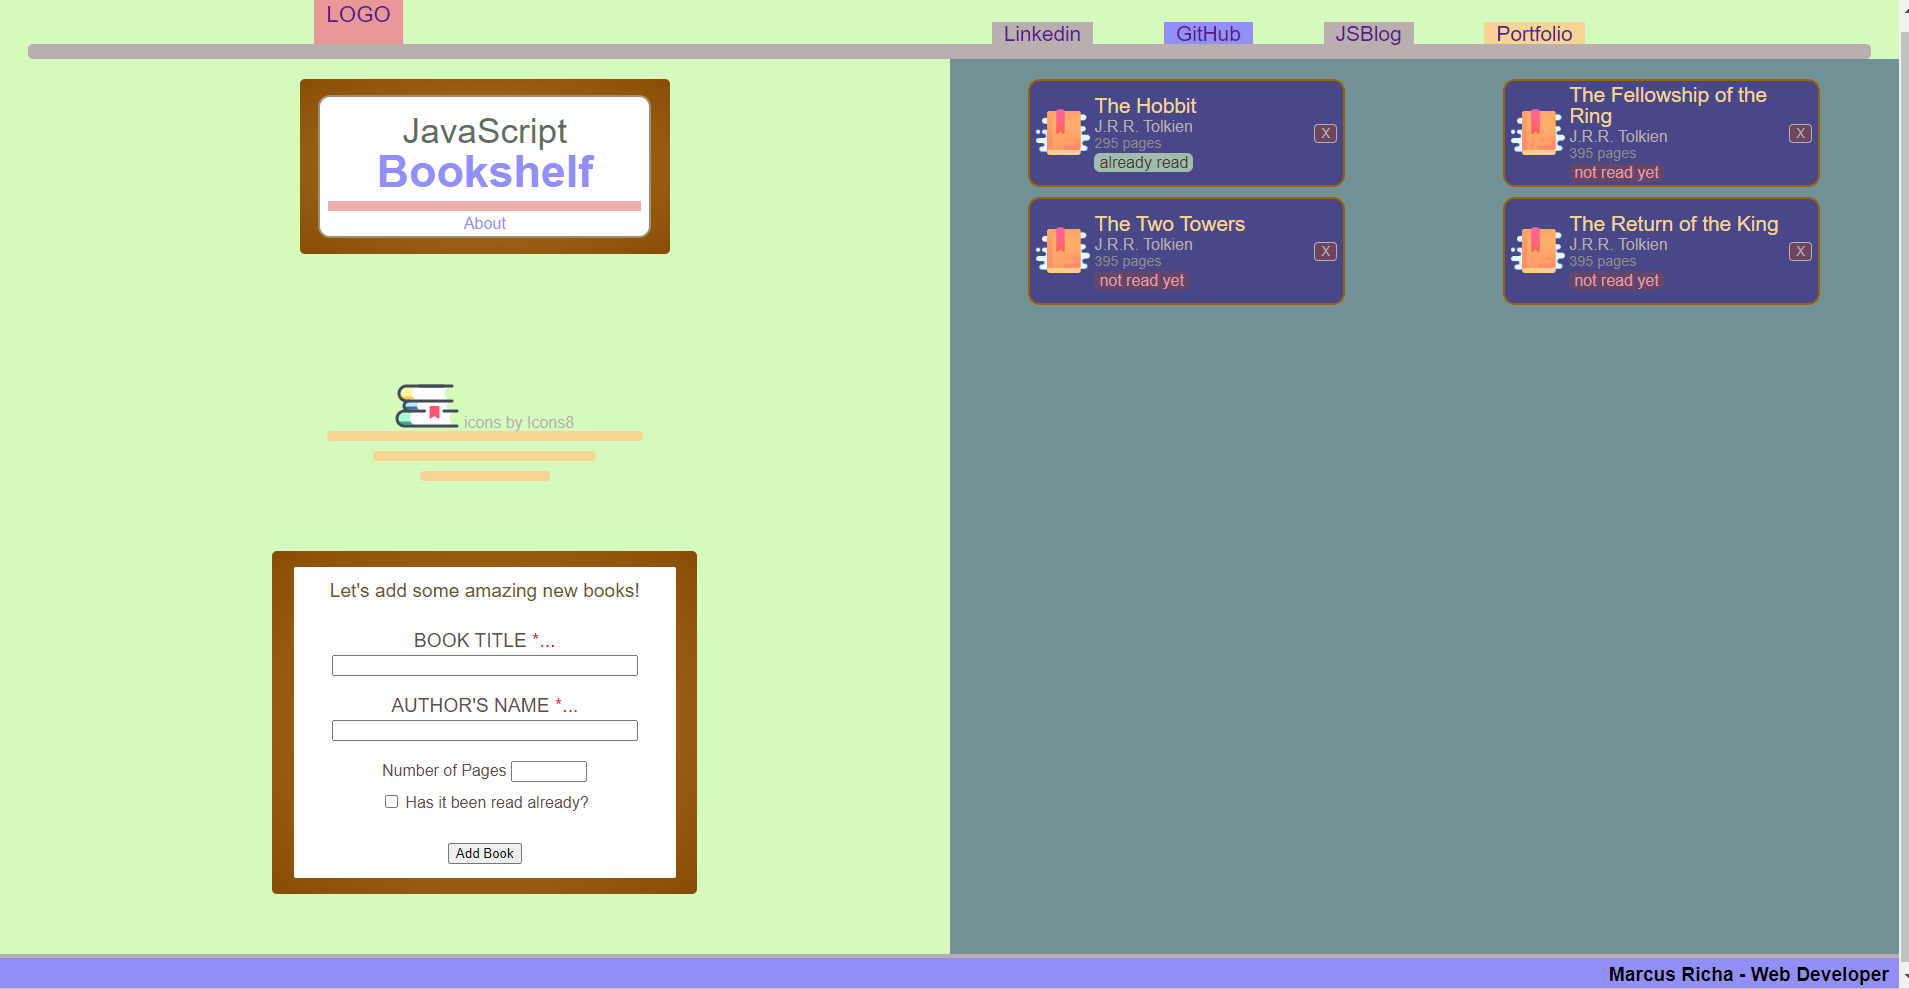
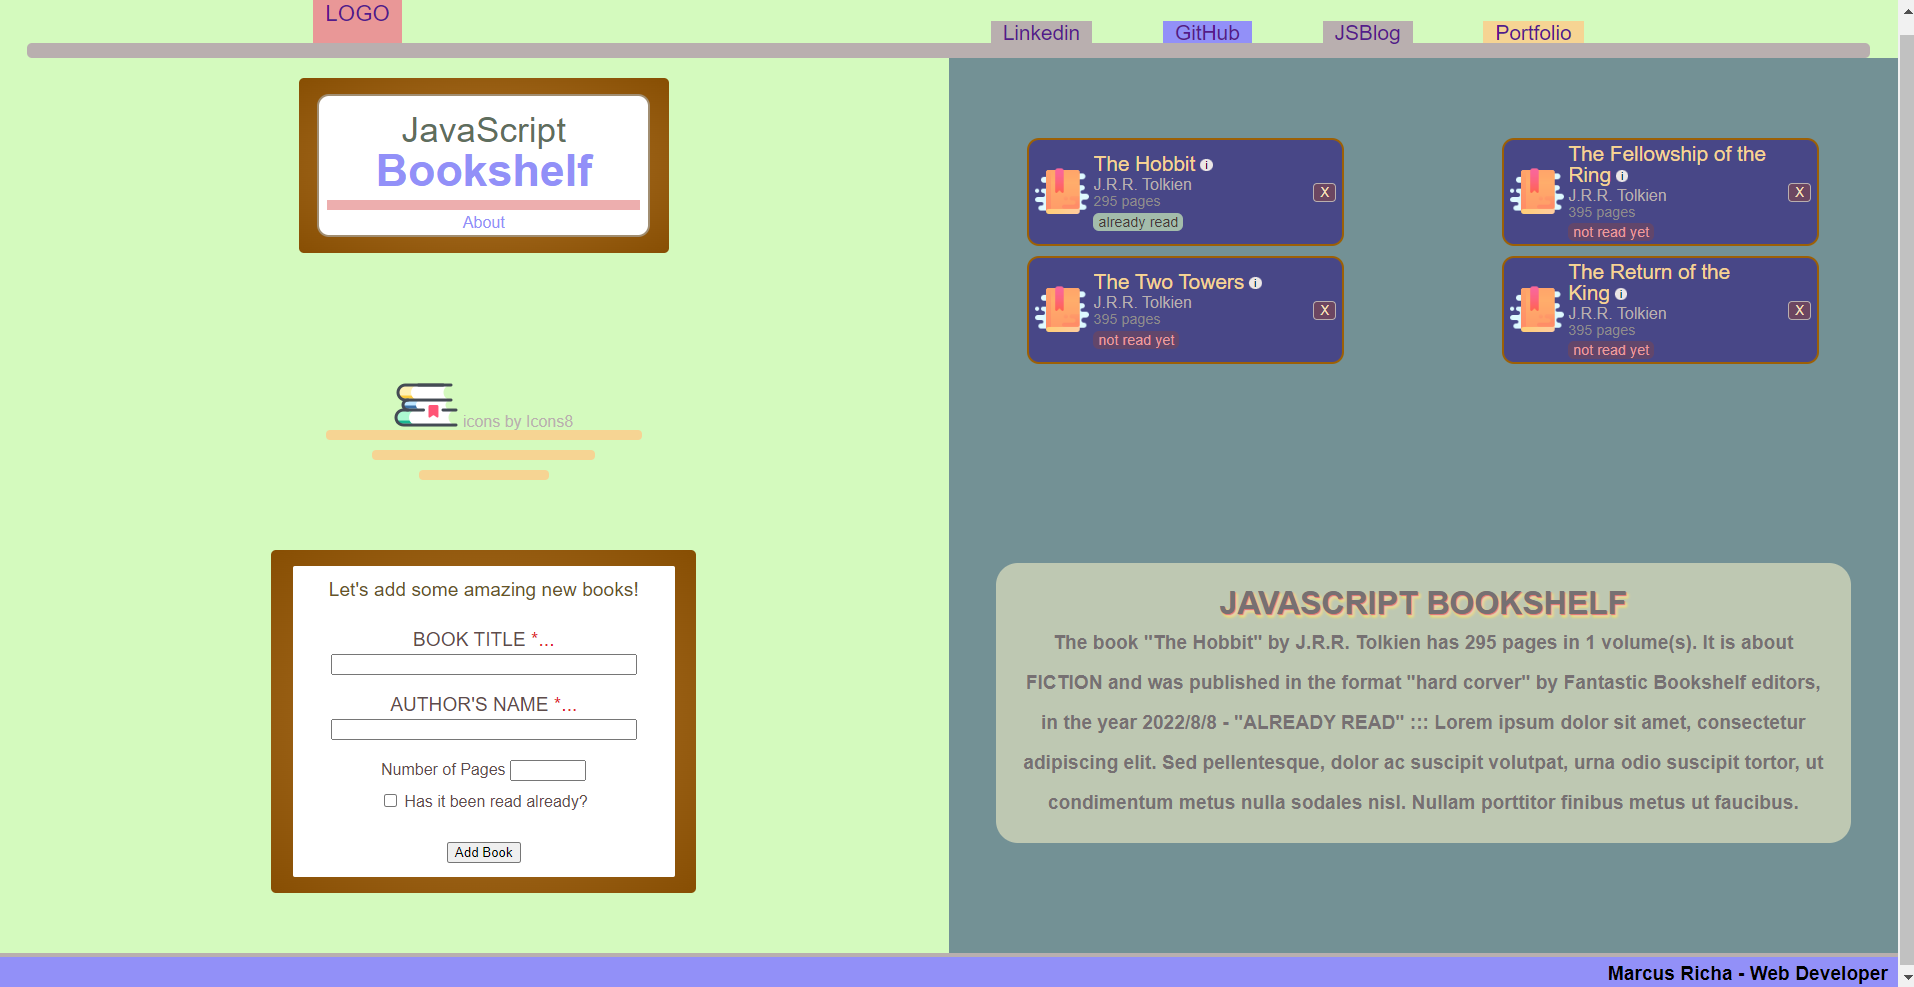
Fix adding book to a empty bookList array and side-effect at book desc

diff --git a/index.js b/index.js
@@ -1,2 +1,2 @@
-(()=>{"use strict";function t(t,e,o,n){this.title=t,this.author=e,this.coauthors=[],this.numVolumes=1,this.publisher="Fantastic Bookshelf",this.bookType="hard corver",this.bookCategory="fiction",this.edition=1,this.releaseYear=new Date,this.numPages=o,this.bookState=n,this.date=new Date,this.lastChange=new Date,this.bookDesc="Lorem ipsum dolor sit amet, consectetur adipiscing elit. Sed pellentesque, dolor ac suscipit volutpat, urna odio suscipit tortor, ut condimentum metus nulla sodales nisl. Nullam porttitor finibus metus ut faucibus."}t.prototype.info=function(){return'The book "'.concat(this.title,'" by ').concat(this.author," has ").concat(this.numPages," pages in ").concat(this.numVolumes," volume(s). It is about ").concat(this.bookCategory.toUpperCase(),' and was published in the format "').concat(this.bookType,'" by ').concat(this.publisher," editors, in the year ").concat(this.releaseYear.getFullYear(),"/").concat(this.releaseYear.getMonth()+1,"/").concat(this.releaseYear.getDate(),' - "').concat(this.bookState.toUpperCase(),'" ::: ').concat(this.bookDesc,"\n\t")},t.prototype.description=function(){return"".concat(this.author," 's ").concat(this.title," is a book about: ").concat(this.bookDesc)};const e=t;function o(){var t=arguments.length>0&&void 0!==arguments[0]?arguments[0]:"p",e=arguments.length>1?arguments[1]:void 0,o=arguments.length>2?arguments[2]:void 0,n=arguments.length>3?arguments[3]:void 0,i=arguments.length>4?arguments[4]:void 0,a=document.createElement(t);if(e){var r=document.createTextNode(e);a.appendChild(r)}if(o&&a.classList.add(o),n&&(a.id=n),Array.isArray(i))for(var l=0;l<i.length;l+=1)a[i[l].prop]=i[l].value;return a}function n(t,e,n){return o(t,e,n)}var i=document.getElementById("booklist");const a=function(t){i.innerHTML=null,t.map((function(t,e){var n,a=o("li","","booklist-partition__book"),r=o("img","","booklist-partition__icon","",[{prop:"src",value:"./public/images/icons8-book-64.png"},{prop:"alt",value:"books icon"}]),l=o("div","","booklist-partition__book-content"),s=o("h3",t.title,"booklist-partition__title"),c=o("span","i","booklist-partition__bookdesc-btn"),d=o("h5",t.author,"booklist-partition__author"),u=o("p","".concat(t.numPages," pages"),"booklist-partition__pages");n="already read"===t.bookState?o("span",t.bookState,"booklist-partition__book-read","book-note"):o("spam",t.bookState,"booklist-partition__book-not-read","book-note");var h=o("button","X","booklist-partition__remove-btn","");return c.setAttribute("data-id",e),h.setAttribute("data-id",e),n.setAttribute("data-id",e),s.appendChild(c),l.appendChild(s),l.appendChild(d),l.appendChild(u),l.appendChild(n),a.appendChild(r),a.appendChild(l),a.appendChild(h),i.appendChild(a),a}))};var r=document.getElementById("hidden-message-board"),l=document.querySelector(".book-stack__ornament3"),s="Welcome, fell free to post your books here! :-)";const c=function(t){var e=arguments.length>1&&void 0!==arguments[1]?arguments[1]:s,o=arguments.length>2?arguments[2]:void 0,i=n(t,e,o);r.style.display="block",console.log(l),r.appendChild(i),setTimeout((function(){r.style.display="none",r.innerHTML=null}),5e3)};var d=document.querySelector(".booklist-partition__book-desc"),u="JAVASCRIPT BOOKSHELF";const h=function(t){var e=arguments.length>1&&void 0!==arguments[1]?arguments[1]:u,o=arguments.length>2?arguments[2]:void 0;d.innerHTML=null;var i=n("h2",u,"booklist-partition__desc-text1");d.appendChild(i);var a=n(t,e,o);d.appendChild(a)};var p=document.getElementById("description-partition__about"),b=document.getElementById("add-book"),k=(document.getElementById("book-desc"),[]),g=new e("The Hobbit","J.R.R. Tolkien",295,"already read"),m=new e("The Fellowship of the Ring","J.R.R. Tolkien",395,"not read yet"),f=new e("The Two Towers","J.R.R. Tolkien",395,"not read yet"),v=new e("The Return of the King","J.R.R. Tolkien",395,"not read yet");function _(){document.querySelectorAll(".booklist-partition__bookdesc-btn").forEach((function(t){t.addEventListener("click",(function(t){var e=Number(t.target.getAttribute("data-id"));console.log(e);var o=k.filter((function(t,o){if(o===e)return t}));o[0].description(),h("h4",o[0].info(),"booklist-partition__desc-text")}))}))}function y(){document.querySelectorAll("#book-note").forEach((function(t){t.addEventListener("click",(function(t){var e=Number(t.target.getAttribute("data-id"));console.log(e),"already read"===t.target.textContent?C(t.target,e,"not read yet","booklist-partition__book-read","booklist-partition__book-not-read"):C(t.target,e,"already read","booklist-partition__book-not-read","booklist-partition__book-read")}))}))}function T(){document.querySelectorAll(".booklist-partition__remove-btn").forEach((function(t){t.addEventListener("click",(function(t){console.log(t.target.getAttribute("data-id"));var e,o=Number(t.target.getAttribute("data-id"));e=o,k=k.filter((function(t,o){if(o!==e)return t})),console.log(k),a(k),_(),y(),T(),E()}))}))}function C(t,e,o,n,i){k.map((function(t,n){n===e&&(t.bookState=o)})),t.textContent=o,t.classList.remove(n),t.classList.add(i)}function E(){var t="".concat(k.length," book(s) :::  Click on the books to get their descriptions!");if(k.length>0){var o=k.filter((function(t){return"Your Book here!"!==t.title}));a(o),_(),y(),T(),h("h4",t,"booklist-partition__desc-text2")}else{var n=new e("Your Book here!","This is also for you! :-)","All that you need: ","not read yet");k.push(n),a(k),T(),h("h4",t,"booklist-partition__desc-text2")}}k.push(g,m,f,v),E(),p.addEventListener("click",(function(){console.log("test about sec"),c("h3","Welcome, to the JS-Library and fell free share your books here!","message-board-msg")})),b.addEventListener("click",(function(){var t=document.getElementById("title"),o=document.getElementById("author"),n=document.getElementById("num-pages"),i=document.getElementById("is-read");console.log("input checked value: ",i.checked),function(t,o,n,i){if(t&&o){n||(n=0),console.log("input checked value: ",i);var a=new e(t,o,n,i=i?"already read":"not read yet");k.push(a),console.log(k)}else console.log("Please, fill all the required fields: TITLE and AUTHOR"),c("h4","Please, fill all the required fields: TITLE and AUTHOR","message-board-validation")}(t.value,o.value,n.value,i.checked);var r='Your book "'.concat(t.value,'" was added to the JS-LIBRARY!');!function(t,e,o,n){t.value="",e.value="",o.value="",n.checked=!1}(t,o,n,i);var l=k.filter((function(t){return"Your Book here!"!==t.title}));a(l),_(),y(),T(),h("h4",r,"booklist-partition__desc-text2")}))})();
[1 lines of base64/hex data omitted]
+(()=>{"use strict";function t(t,e,o,n){this.title=t,this.author=e,this.coauthors=[],this.numVolumes=1,this.publisher="Fantastic Bookshelf",this.bookType="hard corver",this.bookCategory="fiction",this.edition=1,this.releaseYear=new Date,this.numPages=o,this.bookState=n,this.date=new Date,this.lastChange=new Date,this.bookDesc="Lorem ipsum dolor sit amet, consectetur adipiscing elit. Sed pellentesque, dolor ac suscipit volutpat, urna odio suscipit tortor, ut condimentum metus nulla sodales nisl. Nullam porttitor finibus metus ut faucibus."}t.prototype.info=function(){return'The book "'.concat(this.title,'" by ').concat(this.author," has ").concat(this.numPages," pages, in ").concat(this.numVolumes," volume(s). It is a ").concat(this.bookCategory.toUpperCase()," publication by ").concat(this.publisher,' editors, released in "').concat(this.bookType,'" format, in ').concat(this.releaseYear.getFullYear(),' - "').concat(this.bookState.toUpperCase(),'" ::: ').concat(this.bookDesc,"\n\t")},t.prototype.description=function(){return"".concat(this.author," 's ").concat(this.title," is a book about: ").concat(this.bookDesc)};const e=t;function o(){var t=arguments.length>0&&void 0!==arguments[0]?arguments[0]:"p",e=arguments.length>1?arguments[1]:void 0,o=arguments.length>2?arguments[2]:void 0,n=arguments.length>3?arguments[3]:void 0,i=arguments.length>4?arguments[4]:void 0,a=document.createElement(t);if(e){var r=document.createTextNode(e);a.appendChild(r)}if(o&&a.classList.add(o),n&&(a.id=n),Array.isArray(i))for(var l=0;l<i.length;l+=1)a[i[l].prop]=i[l].value;return a}function n(t,e,n){return o(t,e,n)}var i=document.getElementById("booklist");const a=function(t){i.innerHTML=null,t.map((function(t,e){var n,a=o("li","","booklist-partition__book"),r=o("img","","booklist-partition__icon","",[{prop:"src",value:"./public/images/icons8-book-64.png"},{prop:"alt",value:"books icon"}]),l=o("div","","booklist-partition__book-content"),s=o("h3",t.title,"booklist-partition__title"),c=o("span","i","booklist-partition__bookdesc-btn"),d=o("h5",t.author,"booklist-partition__author"),u=o("p","".concat(t.numPages," pages"),"booklist-partition__pages");n="already read"===t.bookState?o("span",t.bookState,"booklist-partition__book-read","book-note"):o("spam",t.bookState,"booklist-partition__book-not-read","book-note");var h=o("button","X","booklist-partition__remove-btn","");return c.setAttribute("data-id",e),h.setAttribute("data-id",e),n.setAttribute("data-id",e),s.appendChild(c),l.appendChild(s),l.appendChild(d),l.appendChild(u),l.appendChild(n),a.appendChild(r),a.appendChild(l),a.appendChild(h),i.appendChild(a),a}))};var r=document.getElementById("hidden-message-board"),l=document.querySelector(".book-stack__ornament3"),s="Welcome, fell free to post your books here! :-)";const c=function(t){var e=arguments.length>1&&void 0!==arguments[1]?arguments[1]:s,o=arguments.length>2?arguments[2]:void 0,i=n(t,e,o);r.style.display="block",console.log(l),r.appendChild(i),setTimeout((function(){r.style.display="none",r.innerHTML=null}),5e3)};var d=document.querySelector(".booklist-partition__book-desc"),u="JAVASCRIPT BOOKSHELF";const h=function(t){var e=arguments.length>1&&void 0!==arguments[1]?arguments[1]:u,o=arguments.length>2?arguments[2]:void 0;d.innerHTML=null;var i=n("h2",u,"booklist-partition__desc-text1");d.appendChild(i);var a=n(t,e,o);d.appendChild(a)};var p=document.getElementById("description-partition__about"),b=document.getElementById("add-book"),k=(document.getElementById("book-desc"),[]),g=new e("The Hobbit","J.R.R. Tolkien",295,"already read"),m=new e("The Fellowship of the Ring","J.R.R. Tolkien",395,"not read yet"),f=new e("The Two Towers","J.R.R. Tolkien",395,"not read yet"),v=new e("The Return of the King","J.R.R. Tolkien",395,"not read yet");function _(){document.querySelectorAll(".booklist-partition__bookdesc-btn").forEach((function(t){t.addEventListener("click",(function(t){var e=Number(t.target.getAttribute("data-id"));console.log(e);var o=k.filter((function(t,o){if(o===e)return t}));o[0].description(),h("h4",o[0].info(),"booklist-partition__desc-text")}))}))}function y(){document.querySelectorAll("#book-note").forEach((function(t){t.addEventListener("click",(function(t){var e=Number(t.target.getAttribute("data-id"));console.log(e),"already read"===t.target.textContent?C(t.target,e,"not read yet","booklist-partition__book-read","booklist-partition__book-not-read"):C(t.target,e,"already read","booklist-partition__book-not-read","booklist-partition__book-read")}))}))}function T(){document.querySelectorAll(".booklist-partition__remove-btn").forEach((function(t){t.addEventListener("click",(function(t){console.log(t.target.getAttribute("data-id"));var e,o=Number(t.target.getAttribute("data-id"));e=o,k=k.filter((function(t,o){if(o!==e)return t})),console.log(k),a(k),_(),y(),T(),E()}))}))}function C(t,e,o,n,i){k.map((function(t,n){n===e&&(t.bookState=o)})),t.textContent=o,t.classList.remove(n),t.classList.add(i)}function E(){var t="".concat(k.length," book(s) :::  Click on the books to get their descriptions!");if(k.length>0)k=k.filter((function(t){return"Your Book here!"!==t.title})),a(k),_(),y(),T(),h("h4",t,"booklist-partition__desc-text2");else{var o=new e("Your Book here!","This is also for you! :-)","All that you need: ","not read yet");k.push(o),a(k),T(),h("h4",t,"booklist-partition__desc-text2")}}k.push(g,m,f,v),E(),p.addEventListener("click",(function(){console.log("test about sec"),c("h3","Welcome, to the JS-Library and fell free share your books here!","message-board-msg")})),b.addEventListener("click",(function(){var t=document.getElementById("title"),o=document.getElementById("author"),n=document.getElementById("num-pages"),i=document.getElementById("is-read");console.log("input checked value: ",i.checked),function(t,o,n,i){if(t&&o){n||(n=0),console.log("input checked value: ",i);var a=new e(t,o,n,i=i?"already read":"not read yet");k.push(a),console.log(k)}else console.log("Please, fill all the required fields: TITLE and AUTHOR"),c("h4","Please, fill all the required fields: TITLE and AUTHOR","message-board-validation")}(t.value,o.value,n.value,i.checked);var r='Your book "'.concat(t.value,'" was added to the JS-LIBRARY!');!function(t,e,o,n){t.value="",e.value="",o.value="",n.checked=!1}(t,o,n,i),k=k.filter((function(t){return"Your Book here!"!==t.title})),a(k),_(),y(),T(),h("h4",r,"booklist-partition__desc-text2")}))})();
[1 lines of base64/hex data omitted]

diff --git a/src/model/Book.js b/src/model/Book.js
@@ -17,7 +17,7 @@ function Book(title, author, numPages, bookState) {
 } 
 
 Book.prototype.info = function() {
-	const shortDesc = `The book "${this.title}" by ${this.author} has ${this.numPages} pages in ${this.numVolumes} volume(s). It is about ${this.bookCategory.toUpperCase()} and was published in the format "${this.bookType}" by ${this.publisher} editors, in the year ${this.releaseYear.getFullYear()}/${this.releaseYear.getMonth() + 1}/${this.releaseYear.getDate()} - "${this.bookState.toUpperCase()}" ::: ${this.bookDesc}
+	const shortDesc = `The book "${this.title}" by ${this.author} has ${this.numPages} pages, in ${this.numVolumes} volume(s). It is a ${this.bookCategory.toUpperCase()} publication by ${this.publisher} editors, released in "${this.bookType}" format, in ${this.releaseYear.getFullYear()} - "${this.bookState.toUpperCase()}" ::: ${this.bookDesc}
 	`;
 			
 	return shortDesc;

diff --git a/src/my-jsLibrary.js b/src/my-jsLibrary.js
@@ -47,10 +47,10 @@ addBookBtn.addEventListener('click', () => {
     
 	clearFormSheet(nodeTitle, nodeAuthor, nodePages, nodeBookNote);
 	
-    let temp = myLibrary.filter(book => book.title !== 'Your Book here!');
+    myLibrary = myLibrary.filter(book => book.title !== 'Your Book here!');
     
 	// Render library
-	showBooklist(temp);
+	showBooklist(myLibrary);
 	
 	// Pass Eventlisteners
 	getBookDesc();
@@ -190,11 +190,10 @@ function checkLibrary() {
 	let bookBoardMsg = `${myLibrary.length} book(s) :::  Click on the books to get their descriptions!`;
     
     if (myLibrary.length > 0) {
-		let temp = myLibrary.filter(book => book.title !== 'Your Book here!');
-        
+		myLibrary = myLibrary.filter(book => book.title !== 'Your Book here!');
         
         // Render library
-		showBooklist(temp);
+		showBooklist(myLibrary);
 		
 		// Pass Eventlisteners
 		getBookDesc();
